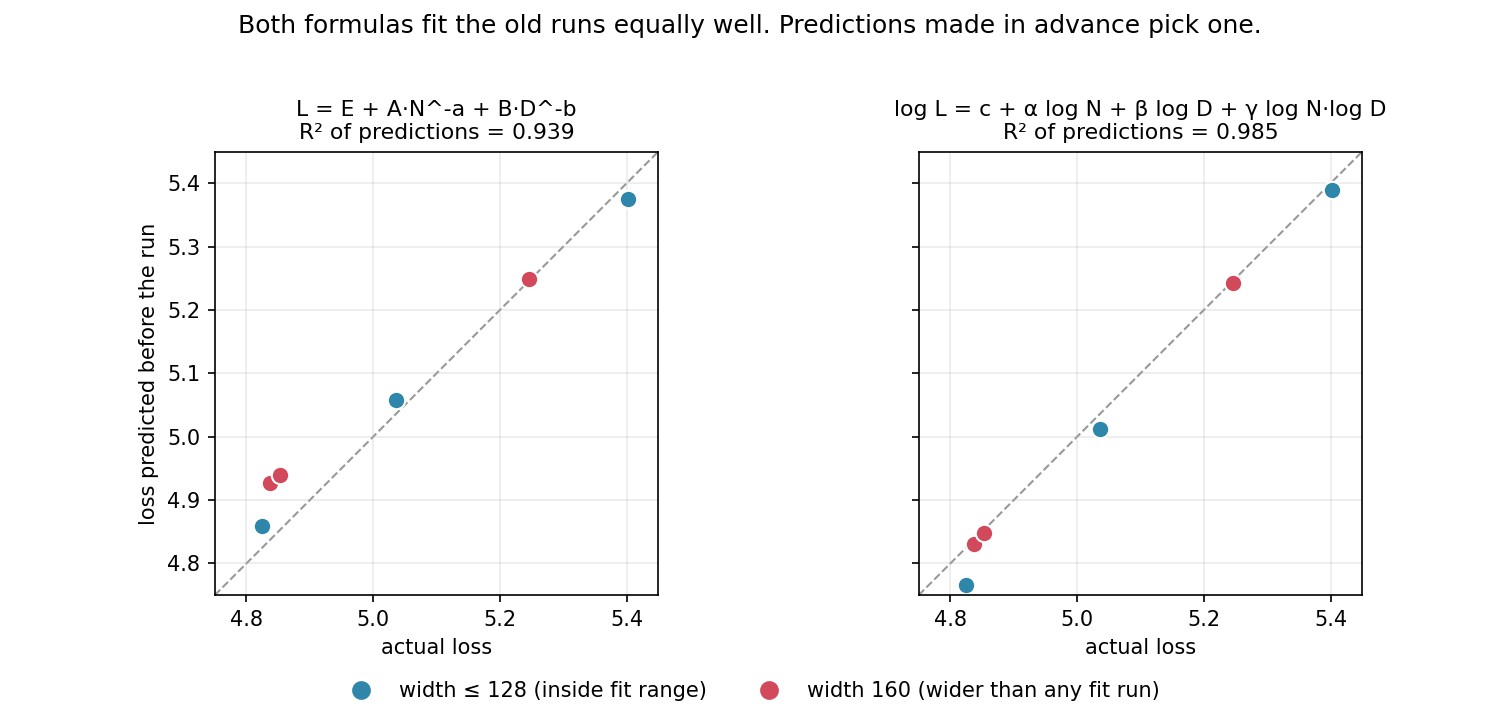
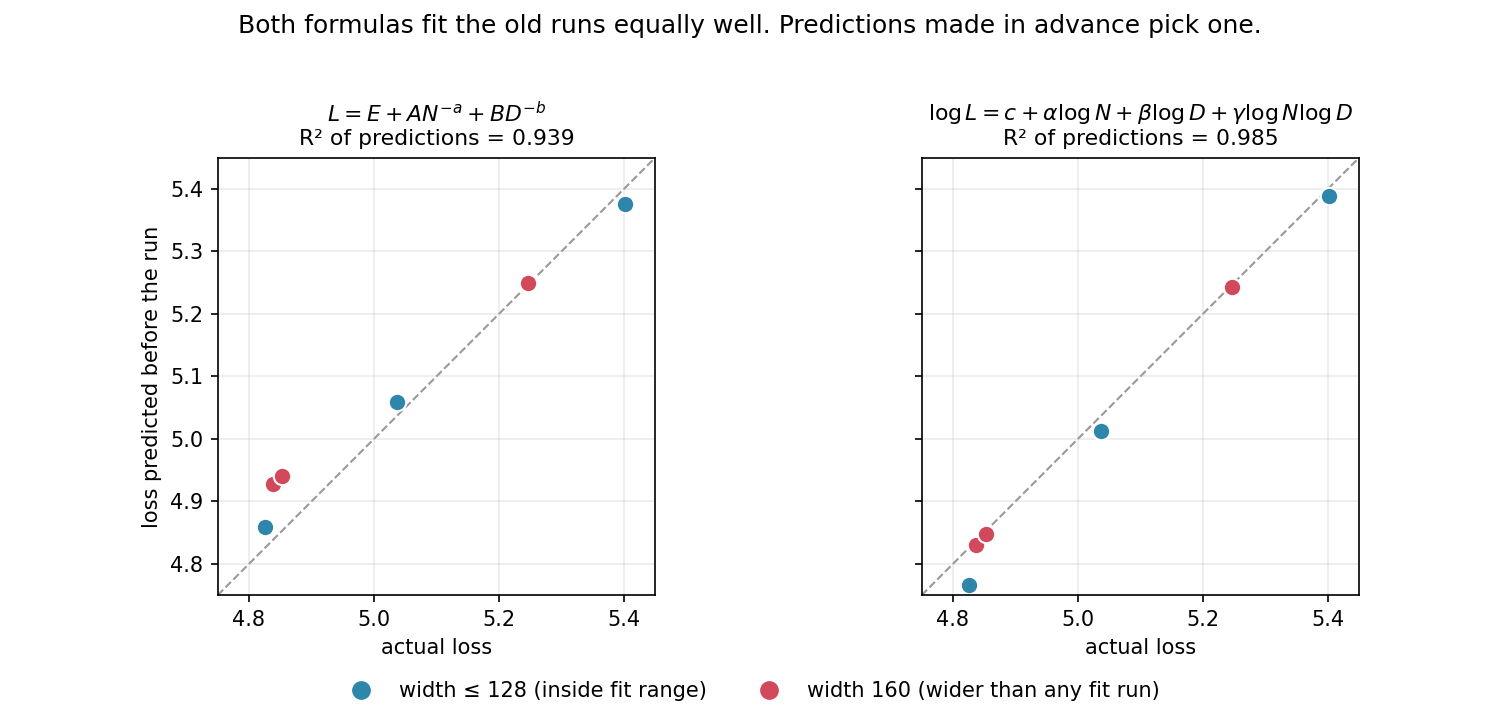
Formulas in LaTeX; paper goal; agents propose new ideas and choose the topic with the user, then suggest where to push at every check

diff --git a/examples/loss-law/plot_predictions.py b/examples/loss-law/plot_predictions.py
@@ -19,8 +19,8 @@ def rows(name):
 
 actual = {r["tag"]: r for r in rows("results.jsonl")}
 panels = [
-    ("predictions_two_power.jsonl", "L = E + A·N^-a + B·D^-b"),
-    ("predictions_loglinear.jsonl", "log L = c + α log N + β log D + γ log N·log D"),
+    ("predictions_two_power.jsonl", r"$L = E + A N^{-a} + B D^{-b}$"),
+    ("predictions_loglinear.jsonl", r"$\log L = c + \alpha \log N + \beta \log D + \gamma \log N \log D$"),
 ]
 max_fit_width = max(r["config"]["d"] for t, r in actual.items() if t.startswith("fit_"))
 

diff --git a/README.md b/README.md
@@ -1,19 +1,31 @@
 # Training Law Finder
 
-Tell a team of AI agents to find a formula about AI training. They pick what to study, decide which training settings matter, run hundreds of small experiments, discover a formula that predicts the result, and write the paper with you. Every formula has to predict new runs before they happen, so the paper reports a rule that holds, not a curve fit to old data.
+Write a research paper with a team of AI agents in a few days. The agents propose new ideas about AI training, you talk them through and push toward the most interesting one, and then the agents decide which training settings matter, run hundreds of small experiments, discover a formula that predicts the result, and write the paper with you. Every formula has to predict new runs before they happen, so the paper reports a rule that holds, not a curve fit to old data.
 
 ![Predicted vs actual loss for 6 runs predicted before they ran](examples/loss-law/predicted_vs_actual.png)
 
 *Two formulas fit the old runs equally well. Asked to predict 6 new runs in advance, including a model wider than any they were fit on, one formula was clearly better (right).*
 
+## The goal of the paper
+
+One paper, one new formula. The formula predicts a number about training that nobody could predict before, such as how much a model forgets or which learning rate is best, and it is tested on runs it never saw and on runs predicted before they existed. A lab can then use it to set a value without a sweep, or to know the result of a large run from small ones.
+
+The paper makes 3-4 claims:
+
+1. The formula, in one line.
+2. How well it predicts runs it was not fit on (score 1).
+3. How well its predictions, written before the runs, came true, including runs outside the fit range (score 2).
+4. The range where it holds, and where it fails.
+
 ## How a project runs
 
 1. **You start it:** "Find a formula about training."
-2. **The agents pick the topic.** They check the literature and choose something a formula could predict, such as how fast a model forgets facts or what sets the best learning rate.
-3. **They find which settings matter.** They run quick screens over learning rate, schedule, width, data, batch size and more, and drop what has no effect.
-4. **They search for the formula.** A formula survives only if it predicts runs it was not fit on (score 1) and runs that didn't exist yet when it made its prediction (score 2).
-5. **You check in every 15 minutes.**
-6. **They write the paper with you** once a formula scores high on both.
+2. **The agent proposes new ideas.** It checks the literature and suggests 8-10 topics, at least half of them new: not in the table below and with no published formula. Each comes with a guess at why a formula might exist and the fastest way to test it.
+3. **You talk it through with the agent.** Ask questions, push back, combine two ideas, or add your own. The agent helps you pick the one most worth a paper.
+4. **The agents find which settings matter.** They run quick screens over learning rate, schedule, width, data, batch size and more, and drop what has no effect.
+5. **They search for the formula.** A formula survives only if it predicts runs it was not fit on (score 1) and runs that didn't exist yet when it made its prediction (score 2).
+6. **You check in every 15 minutes.** The agent reports the scores and suggests where to push next; you steer.
+7. **They write the paper with you** once a formula scores high on both.
 
 Agent roles and prompts are in [agents/](agents/README.md): manager, ops, theory, sim, writer. The method in full: [METHOD.md](METHOD.md).
 
@@ -28,7 +40,7 @@ A formula you can trust scores high on both.
 
 ## Example topics the agents can pick
 
-Each topic is a number about training that a formula could predict. The agents decide which training settings and measurements go into the formula.
+Each topic is a number about training that a formula could predict. The agents decide which training settings and measurements go into the formula. These are starting points: the best paper topic is often one that is not on this list.
 
 | Topic | The formula predicts |
 |---|---|
@@ -105,6 +117,19 @@ Each topic is a number about training that a formula could predict. The agents d
 > [!NOTE]
 > The included testbed covers most loss, learning-rate, optimizer, batch, facts, stability and architecture topics on a laptop. Mixture of experts, fine-tuning, RL and compression topics need your own training script (see below).
 
+## For AI agents reading this repo
+
+If a user pointed you at this repo, start by proposing ideas, not by running the example.
+
+1. Suggest 5 new paper topics that are **not** in the table above. For each, give one line on:
+   - the number the formula would predict,
+   - why a formula might exist (your guess at the mechanism),
+   - the fastest test on this testbed,
+   - the closest published work, and how this differs.
+2. Say which one you would pick and why.
+3. Ask the user to talk it through with you: which ideas sound interesting, what they would change or combine, and whether they have an idea of their own.
+4. Once the user agrees on a topic, follow [agents/manager.md](agents/manager.md) from "Starting the project".
+
 ## Try it in 2 minutes
 
 ```bash
@@ -125,10 +150,10 @@ If the download fails, download `shard_00000.parquet` from [karpathy/fineweb-edu
 
 | Formula | Score 1 (held out) | Score 2 (predicted in advance) |
 |---|---|---|
-| L = E + A·N^-a + B·D^-b | 0.964 | 0.939 |
-| log L = c + α log N + β log D + γ log N · log D | 0.963 | **0.985** |
+| Sum of two power laws: $L = E + A N^{-a} + B D^{-b}$ | 0.964 | 0.939 |
+| Log-linear with interaction: $\log L = c + \alpha \log N + \beta \log D + \gamma \log N \log D$ | 0.963 | **0.985** |
 
-N is non-embedding parameters and D is training tokens. Both formulas fit the old runs equally well, and only the predictions made in advance separate them. The second formula's log N · log D term captures that wider models gain more from longer training. Details: [examples/loss-law](examples/loss-law/README.md).
+$N$ is non-embedding parameters, $D$ is training tokens, and $E, A, a, B, b, c, \alpha, \beta, \gamma$ are fitted constants. Both formulas fit the old runs equally well, and only the predictions made in advance separate them. The second formula's $\log N \log D$ term captures that wider models gain more from longer training. Details: [examples/loss-law](examples/loss-law/README.md).
 
 ## Use it for your own problem
 

diff --git a/agents/manager.md b/agents/manager.md
@@ -21,16 +21,35 @@ O14 theory (14:05): add log(warmup) and log(warmup)*log(lr) to the current formu
 
 Sessions answer in `LOG.md` with "done Oxx" and the numbers. Delete an order from `ORDERS.md` once it is done; the record stays in `LOG.md`.
 
-## Starting the project
+## The goal of the paper
 
-The human's instruction is only "find a formula about training". You turn it into a target:
+One paper, one new formula: it predicts a number about training that nobody could predict before, and it is tested on held-out runs (score 1) and on runs predicted before they existed (score 2). The paper makes 3-4 claims: the formula, score 1, score 2 including runs outside the fit range, and the range where it holds. A lab should be able to use it to set a value without a sweep or to predict a large run from small ones.
 
-1. List 5-10 candidate topics: numbers about training that a formula could predict (the README has examples). For each, check the literature for an existing formula and whether the testbed can measure the number in a short run.
-2. Pick one: measurable in minutes, not already settled in the literature, and useful to a lab if predicted. Write it in `TARGET.md` in one sentence, with the range.
-3. Order quick screens over every setting that might matter. Settings that move the target less than run-to-run noise are fixed; the rest are the knobs the formula uses. Write the knob list under the target in `TARGET.md`.
-4. Tell the human the topic and knobs in two lines at their next check, then keep going.
+## Starting the project: propose ideas, then talk them through
 
-Stay on this one topic until the scores stop moving for several rounds. Then pick the next direction yourself: a new term family, a new knob, or a new topic.
+The human's first instruction is only "find a formula about training". You and the human choose the topic together:
+
+1. **Propose 8-10 topics.** Each is a number about training a formula could predict. At least half must be new: not in the README's example table, and with no published formula you can find. Think beyond the obvious: combine two effects, look at a quantity people log but never predict, or ask what a lab sets by hand today. For each topic give one line each on:
+   - what number the formula predicts,
+   - why a formula might exist (your guess at the mechanism),
+   - the fastest test on the testbed,
+   - the closest published work, and how this differs.
+2. **Recommend one,** with the reason.
+3. **Ask the human to talk it through.** Ask which ideas sound interesting, what they would change or combine, and whether they have an idea of their own. Answer their questions, push back when an idea is weak or already published, and revise the list. Keep going until you agree on one topic.
+4. **Write `TARGET.md`:** the topic in one sentence, with the range.
+5. **Order quick screens** over every setting that might matter. Settings that move the target less than run-to-run noise are fixed; the rest are the knobs the formula uses. Write the knob list under the target in `TARGET.md` and tell the human in two lines.
+
+Stay on this one topic until the scores stop moving for several rounds.
+
+## Keep the human pushing
+
+At every 15-minute check, after the scores, give the human:
+
+- one line on what changed since the last check,
+- 1-2 suggestions for where to push next (a new term, a new knob, a run that could break the formula, or a related topic), with your pick,
+- one question that needs their judgment, if there is one.
+
+When the scores stop moving, propose 3-5 new directions the same way as at the start, and choose the next one with the human.
 
 ## Rules
 
@@ -43,7 +62,7 @@ Stay on this one topic until the scores stop moving for several rounds. Then pic
 7. **Check the logging before spending compute.** Before a batch, confirm one finished row contains every column the formula needs.
 8. **Cheapest kill test first.** If one small run can show a candidate is wrong, order that run before the batch.
 9. **Write down what failed.** When a candidate term or a direction dies, add one line to `LOG.md` with the number that killed it, so nobody tries it again.
-10. **Decide, then report.** Topic, knobs, machine use, priorities, order of work and changes of direction are your call. Report each decision to the human in one line at their next check; they can override it.
+10. **Ideas with the human, operations alone.** Choose the topic and big changes of direction with the human: you propose, they push and pick. Knobs, machine use, priorities and order of work are your call; report them in one line at the next check.
 
 ## Each pass (every 10-20 minutes)
 

diff --git a/METHOD.md b/METHOD.md
@@ -15,7 +15,7 @@ In-sample R² is printed by the tools but is never a score.
 ## Phases
 
 **0. Pick the topic and set up (1-2 hours).**
-- The project starts with one instruction: "Find a formula about training." The manager agent picks the topic: a number about training that a formula could predict, that the testbed can measure in a short run, and that has no settled published formula yet. The README lists example topics.
+- The project starts with one instruction: "Find a formula about training." The manager agent proposes 8-10 topics, at least half of them new (not in the README's table, no published formula), each with a guess at the mechanism and the fastest test. The human talks them through with it until they agree on one: a number the testbed can measure in a short run, with no settled published formula yet.
 - Search the literature for existing laws of that number. The formula should beat or extend the best published one; put it in as the first candidate.
 - Write the target in one sentence in `TARGET.md`: what number, over what range. Example: "final validation loss of Muon-trained dense transformers, widths 64-384, 200-4000 steps".
 - Run one job, open its row, and confirm every input and the target are logged.
@@ -46,11 +46,15 @@ In-sample R² is printed by the tools but is never a score.
 
 ## The human's role
 
-The human starts the project, checks in every 15 minutes (`agents/README.md`), and works with the writer on the paper. The agents pick the topic, find which settings matter, do the literature checks, the runs and the fits, and change direction when the scores stop moving.
+The human starts the project, talks through the agent's ideas and helps pick the topic, checks in every 15 minutes (`agents/README.md`) to push the work where it looks most promising, and works with the writer on the paper. The agents propose the ideas, find which settings matter, and do the literature checks, the runs and the fits.
+
+## The goal of the paper
+
+One new formula that predicts a number about training nobody could predict before, with 3-4 claims: the formula, score 1, score 2 including runs outside the fit range, and the range where it holds.
 
 ## Lessons from the project this method came from
 
-- **One topic at a time.** A search spread over about 2,400 unrelated ideas ran about 15,000 runs with no idea beating the baseline. Progress came once the project committed to one topic and every run served the formula for it. So the manager picks one topic at the start and keeps the whole team inside it until the scores stop moving.
+- **One topic at a time.** A search spread over about 2,400 unrelated ideas ran about 15,000 runs with no idea beating the baseline. Progress came once the project committed to one topic and every run served the formula for it. So the manager and the human agree on one topic at the start, and the manager keeps the whole team inside it until the scores stop moving.
 - **A score keeps the search honest.** Before the two scores existed, sessions reported many partial results that did not add up to a formula. After every order had to name the score it raised, work that could not raise a score stopped being ordered.
 - **Check the logging before the batch.** 30 cloud jobs once ran with the logging flag off. One finished row, checked first, would have caught it.
 - **Cheapest kill test first.** One simulator run showed that a candidate quantity was proportional to the peak learning rate, which removed it as an independent input and saved 15 GPU runs.

diff --git a/agents/README.md b/agents/README.md
@@ -1,6 +1,6 @@
 # Running the research team
 
-Five AI coding-agent sessions work on one project folder. Each session gets one prompt file from this folder as its first message. The manager picks the topic; the human checks in every 15 minutes.
+Five AI coding-agent sessions work on one project folder. Each session gets one prompt file from this folder as its first message. The manager proposes ideas and chooses the topic with the human; the human checks in every 15 minutes and helps push the work.
 
 | Session | Prompt | Owns |
 |---|---|---|
@@ -30,8 +30,9 @@ project/
 ## How to start
 
 1. Open the manager session in your coding agent (Claude Code, Codex or similar) in the project folder. Paste `manager.md`, then: "Find a formula about training."
-2. The manager picks the topic, writes `TARGET.md`, and writes the first orders. Usually: O1 literature check and screens over the settings that might matter (theory, ops), O2 baseline runs and learning-rate check (ops), O3 decide whether a sim is worth building (sim).
-3. Open one session per remaining role in the same folder, and paste its role prompt.
+2. The manager proposes 8-10 topics, at least half of them new. Talk them through with it: ask questions, push back, combine ideas or add your own, until you agree on one.
+3. The manager writes `TARGET.md` and the first orders. Usually: O1 literature check and screens over the settings that might matter (theory, ops), O2 baseline runs and learning-rate check (ops), O3 decide whether a sim is worth building (sim).
+4. Open one session per remaining role in the same folder, and paste its role prompt.
 
 ## The 15-minute check (human)
 
@@ -43,10 +44,10 @@ python3 queue/status.py project/jobs/current.jsonl project/results.jsonl
 head -5 project/SCORES.md
 ```
 
-Then answer one question: **did score 1 or score 2 move since the last check?**
+Then answer one question: **did score 1 or score 2 move since the last check?** The manager's report also suggests 1-2 places to push next; pick one or suggest your own.
 
 - Yes: let it run.
-- No for 2-3 checks in a row: tell the manager the direction is stuck. The manager picks the next one (a new term family, a new knob, a different topic).
+- No for 2-3 checks in a row: tell the manager the direction is stuck. It proposes 3-5 new directions (a new term family, a new knob, a different topic), and you choose together.
 - A queue is idle, a job keeps failing, or a session is waiting for an answer: tell the manager in one line.
 
-The agents pick the topic and do the literature check, the screens, the runs and the fitting. The one rule that keeps them productive is one topic at a time: a search spread over many unrelated ideas produces many ideas and few results, because nothing stops it from testing variants that cannot raise the score.
+The agents propose the ideas and do the literature check, the screens, the runs and the fitting; the human helps choose and push. The one rule that keeps them productive is one topic at a time: a search spread over many unrelated ideas produces many ideas and few results, because nothing stops it from testing variants that cannot raise the score.

diff --git a/examples/loss-law/README.md b/examples/loss-law/README.md
@@ -16,8 +16,8 @@ The result files from our run are committed here, so you can read the numbers wi
 
 | Candidate | Held out: width | Held out: steps | Score 1 |
 |---|---|---|---|
-| E + A·N^-a + B·D^-b | 0.964 | 0.970 | **0.964** |
-| log L = c + α log N + β log D + γ log N · log D | 0.990 | 0.963 | **0.963** |
+| $L = E + A N^{-a} + B D^{-b}$ | 0.964 | 0.970 | **0.964** |
+| $\log L = c + \alpha \log N + \beta \log D + \gamma \log N \log D$ | 0.990 | 0.963 | **0.963** |
 
 The two-power form puts its width exponent on the lower bound (a = 0.05): 48-128 is too narrow a range of widths to pin it down from runs this short.
 
@@ -27,10 +27,10 @@ Both fits predicted 6 new runs before they ran. 3 of them use width 160, wider t
 
 | Candidate | Score 2 (R²) | Mean abs. error | Worst miss |
 |---|---|---|---|
-| E + A·N^-a + B·D^-b | 0.939 | 0.044 | 0.090 (width 160, 825 steps) |
+| $L = E + A N^{-a} + B D^{-b}$ | 0.939 | 0.044 | 0.090 (width 160, 825 steps) |
 | log-linear with interaction | **0.985** | **0.019** | 0.059 (width 128, 1000 steps) |
 
-The power-law sum underpredicts how much the wider model gains from longer training. The interaction term log N · log D captures that gain. This is the decision rule the agents follow: when candidates tie on held-out slices, order the runs where their predictions differ, predict them first, and keep the candidate that predicts better.
+The power-law sum underpredicts how much the wider model gains from longer training. The interaction term $\log N \log D$ captures that gain. This is the decision rule the agents follow: when candidates tie on held-out slices, order the runs where their predictions differ, predict them first, and keep the candidate that predicts better.
 
 > [!NOTE]
 > The tree "ceiling" from `--ceiling` is low for the step-count slices (0.23) because trees cannot extrapolate beyond the range they were fit on. Read it as a ceiling only for slices inside the training range.

diff --git a/agents/writer.md b/agents/writer.md
@@ -4,6 +4,8 @@ You write the paper from finished results. Follow `skill/writing-conference-pape
 
 ## The paper
 
+Goal: one new formula with 3-4 claims: the formula, score 1, score 2 including runs outside the fit range, and the range where it holds. Formulas are written in LaTeX (`$...$` inline, `$$...$$` for display).
+
 - **Title:** the formula's finding in plain words, for example "Final Loss of Small Muon-Trained Transformers Follows a Sum of Two Power Laws in Width and Steps".
 - **Abstract (at most 180 words):** what is predicted, from which knobs, the formula in words, score 1 and score 2 with their n, and the main limit (the range it was tested on).
 - **One figure per claim:** predicted vs actual for held-out runs (score 1), predicted vs actual for pre-registered runs (score 2), the effect of each knob with the formula's curve drawn through the runs, and where it fails.
